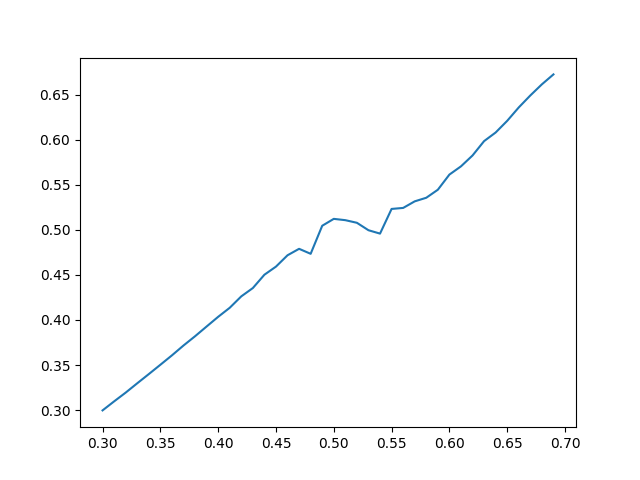
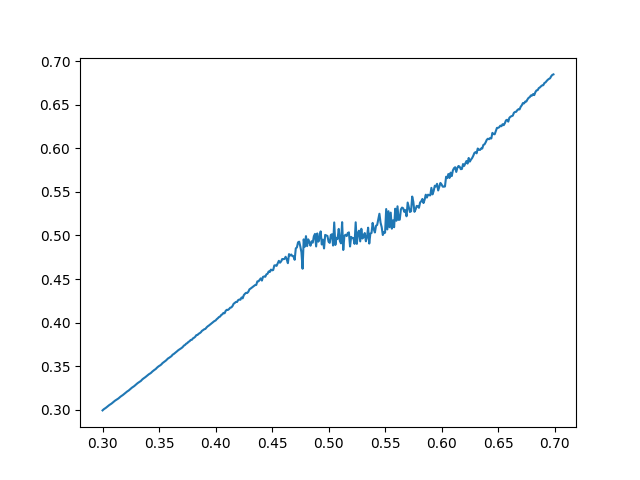
data with single run for gaussian

diff --git a/journal_experiments/gaussian/play.py b/journal_experiments/gaussian/play.py
@@ -287,7 +287,7 @@ def run(conn, interface, gx):
             qdot_r = xdot2qdot(xdot_r, state).tolist()
             data.append([elapsed_time] + [s] + [qdot_h] + [qdot_r] + [float(alpha)])
             start_time = curr_time
-            print(float(alpha))
+            # print(float(alpha))
             # print(pose[1])
         try:
             send2robot(conn, state, qdot)
@@ -301,7 +301,7 @@ def main():
     conn = connect2robot(PORT)
     interface = Joystick()
     x = []
-    g_range = np.arange(0.3,0.7,0.01)
+    g_range = np.arange(0.3,0.7,0.001)
     for gx in g_range:
         final_x = []
         for _ in range(1):
@@ -310,7 +310,7 @@ def main():
             final_x.append(poi)
             print("gx: {} iter: {} xreal: {}".format(gx,_,poi))
         x.append(np.mean(final_x))
-    print(x)
+    # print(x)
     # 
     # x = [0.4736032798278854, 0.4750286233409006, 0.48367007498627934, 0.47202315588031146, 0.46812730712872813, 0.4795119719098426, 0.47977061061129994, 0.47180256239829077, 0.4732387529883536, 0.4824530637772193, 0.4772610003376989, 0.48009314874715936, 0.4776388488009218, 0.4783976156413198, 0.4749568073080815, 0.4756597634641242, 0.4778670424941048, 0.4770844028435327, 0.4759223832892262, 0.4776602349827009, 0.48139576539190543, 0.48177160360393884, 0.491070048261213, 0.4804736785319089, 0.4831222567222095, 0.4820002158215443, 0.48996431749401714, 0.49134944955756926, 0.49105344923367966, 0.49350206643738326, 0.4830699355380268, 0.4956224224751751, 0.4957846522244702, 0.48380058500181755, 0.48954824335277286, 0.4898516383772295, 0.4950980895515134, 0.4924940054306148, 0.4938438071652442, 0.49755601966792595, 0.49683088290364824, 0.49585419804081865, 0.500406113297328, 0.5043438809481946, 0.5017353622301775, 0.5024058676212756, 0.49655647097071737, 0.506228024610861, 0.51138583619931, 0.5148246957500597, 0.5052584906771032, 0.515397665163025, 0.5178653050111087, 0.5195180642829622, 0.5209926969430314, 0.5238592800322179, 0.5240842611899512, 0.5259289608930857, 0.5291208249350806, 0.5313387172501046, 0.5355231276528082, 0.541288032095177, 0.5448400483355009, 0.5447538540351275, 0.5495371984865768, 0.548919067551586, 0.5541621823912518, 0.556437482044139, 0.5547642515362919, 0.5639065864234876]
     pickle.dump([g_range, x], open("final_state.pkl", "wb"))
